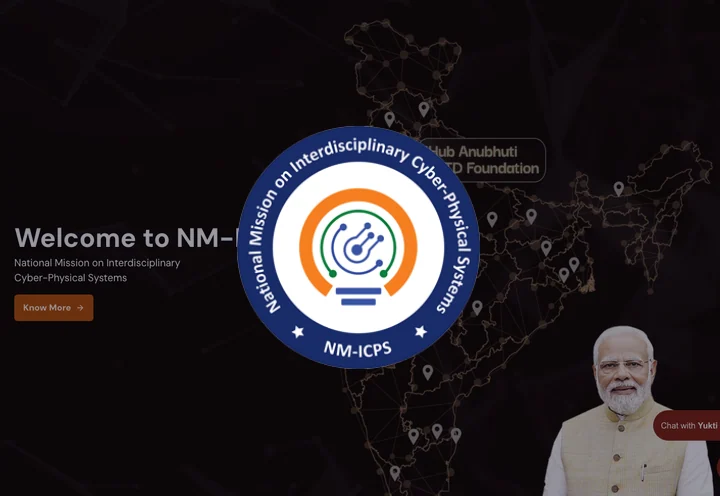
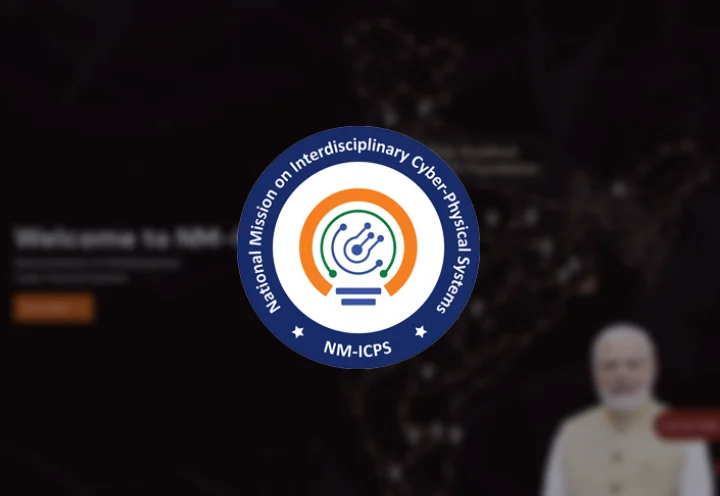
feat: blurred site covers for every project; Rajan Dental courses link
All eight covers are rebuilt from fresh homepage captures with a
Gaussian blur behind the logo so the brand reads clearly. Rajan Dental
now links to and shows courses.rajandental.com. CLAUDE.md documents the
cover recipe, the split cover and the pretext text wrap.

diff --git a/src/components/ProjectCards.tsx b/src/components/ProjectCards.tsx
@@ -58,7 +58,7 @@ const media_urls = [
   {
     id: 5,
     title: "Rajan Dental",
-    links: [{ label: "Website", url: "https://rajandental.com/" }],
+    links: [{ label: "Website", url: "https://courses.rajandental.com/" }],
     cover_image: rajenDentalCover,
     tags: ["UI/UX", "LMS"],
   },

diff --git a/CLAUDE.md b/CLAUDE.md
@@ -44,12 +44,12 @@ Menu links use `to="/#section-id"`. `HomePage` reads `hash` from `useLocation()`
 `src/components/grid.tsx` renders the Services section as four pillar cards, one per competency from the owner's 2030 vision document: title, one short description, and the document's sub-service names as `SubpageHeader variant="small"` tag pills (the same pills the project cards use). Copy lives in `src/components/servicesData.ts`: `PILLARS` (title, description, chips, indices into `SERVICES`) and `SERVICES` (the nine individual services with a one-line lead + one supporting sentence; not rendered as cards any more but still the source of the homepage JSON-LD `offers` in `src/pages/home/page.tsx`). `knowsAbout` in `index.html` is updated by hand. The owner chose this over a pill switcher, a bento, and a glass list (Sept 2026), and earlier rejected a rotating carousel, the "Media Content Marketing" card, illustrations, and a scroll-driven "tree" — do not reintroduce them. The section must use only existing surfaces (section pill, `#06041A` card, Tilt3D, SpotlightCard, fade-up easing).
 
 ### Project cards
-`ProjectCards.tsx` shows static cover images only — the owner removed the hover-to-play video previews (and the old `/test` prototype + `.mp4` assets), do not reintroduce them. The "Take a sneak peek" panel reveals its device mockups via scroll progress (`useScroll` on the panel), not hover.
+`ProjectCards.tsx` shows static cover images only — the owner removed the hover-to-play video previews (and the old `/test` prototype + `.mp4` assets), do not reintroduce them. Every cover follows one recipe (Sept 2026): a 1440px-wide capture of the project's live homepage cropped below its own header, Gaussian-blurred (sigma ≈ 4.5 at 720×496), tinted (white for light sites, navy for dark), with the project's logo composited in the centre; the untouched captures are not kept, so rebuild with `sharp` from a fresh capture. Each card links to the project's live site (`links[]`); a project with exactly two links (SWAYAM Plus: Website + LMS) renders `SplitCover` — one image with two hover zones that widen on hover/focus. Order: SWAYAM Plus, ChitraVaani, Smart Sutra, then the rest; four columns at `lg`. The "Take a sneak peek" panel reveals its device mockups via scroll progress (`useScroll` on the panel), not hover.
 
 ### 3D & interactive pieces
 - `Globe3D.tsx` — photoreal WebGL earth in the Updates section. `/public/textures/earth-day.webp` is NASA Blue Marble (public domain, 4096×2048). Lazy-loaded; the static `/earth2.webp` paints first and crossfades out — that file is a capture of the rendered globe at its initial orientation (regenerate by temporarily setting `preserveDrawingBuffer: true` and saving `canvas.toDataURL()`), so keep them in sync if the initial view changes. Info points are pinned at real lat/long and portal into a marker layer that escapes the earth's alpha mask. The earth and the hero band background dissolve into the page gradient via CSS `mask-image` — never reintroduce a color-matched overlay fade; masks are what keep the section edge seamless. Falls back to the flat image + dot row when WebGL is unavailable or reduced motion is set.
 - `Tilt3D.tsx` — generic mouse-follow perspective tilt used on project cards, solutions grid, and testimonials. Inert on touch/reduced-motion.
-- `Hourglass3D.tsx` — the Why-Us hourglass. `/public/hourglass/hourglass.glb` (meshopt-compressed, decoded with `three/addons/libs/meshopt_decoder`) is the vessel; the sand is a live position-based granular simulation of 3,000 grains, each drawn as one camera-facing shaded sphere in a single instanced draw (no shadow maps, no glow lights; gravity is scaled up to ~28 units/s² so falls read at the vessel's scale) in `src/components/hourglass/` (`HourglassView.ts` owns renderer/scene/interaction, `physics.ts` the grains and the metered neck, `sandVisual.ts` the single instanced draw, `transformation.ts` the chamber-role state machine, `sand.ts` the vessel wall profile that must match the GLB). It runs a 32-second metered cycle, waits for the pile to settle, flips itself and repeats. Drag sideways to tilt (gravity follows), drag vertically to lift (grains get a kick); the vessel stays where it is released (the owner does not want it to snap back), and resting it inverted swaps the roles. Lazy-loaded when the section approaches and fades in on its first frame; there is no static stand-in any more (the owner removed it; `/public/hourglass.webp` is now unused). Without WebGL2, with reduced motion, on failure, or below `lg`, the section is plain stacked copy with no visual. Physics only steps while the section is in view. All sand is one golden colour (the owner rejected the raw-to-gold transition). Layout: the vessel is centered in the section with the copy split into two columns around it; each column holds an invisible float whose `shape-outside` is the vessel's live screen-space outline (`HourglassView.onOutline` projects the frame's bounding cylinder through the camera and convex-hulls it; `src/lib/hourglassSilhouette.ts` formats it, with an analytic upright fallback for the static image), so the text reflows as the hourglass tilts or lifts. No card, no text overlay (the owner rejected both). The 3D vessel mounts only at `lg` and up (`useIsDesktop`). The left column sits a little above the neck and the right column starts lower (`LEFT_RISE` / `RIGHT_STAGGER`).
+- `Hourglass3D.tsx` — the Why-Us hourglass. `/public/hourglass/hourglass.glb` (meshopt-compressed, decoded with `three/addons/libs/meshopt_decoder`) is the vessel; the sand is a live position-based granular simulation of 3,000 grains, each drawn as one camera-facing shaded sphere in a single instanced draw (no shadow maps, no glow lights; gravity is scaled up to ~28 units/s² so falls read at the vessel's scale) in `src/components/hourglass/` (`HourglassView.ts` owns renderer/scene/interaction, `physics.ts` the grains and the metered neck, `sandVisual.ts` the single instanced draw, `transformation.ts` the chamber-role state machine, `sand.ts` the vessel wall profile that must match the GLB). It runs a 32-second metered cycle, waits for the pile to settle, flips itself and repeats. Drag sideways to tilt (gravity follows), drag vertically to lift (grains get a kick); the vessel stays where it is released (the owner does not want it to snap back), and resting it inverted swaps the roles. Lazy-loaded when the section approaches and fades in on its first frame; there is no static stand-in any more (the owner removed it; `/public/hourglass.webp` is now unused). Without WebGL2, with reduced motion, on failure, or below `lg`, the section is plain stacked copy with no visual. Physics only steps while the section is in view. All sand is one golden colour (the owner rejected the raw-to-gold transition). Layout: the vessel is centered in the section with the copy split into two columns around it. The copy is laid out line by line with **pretext** (`@chenglou/pretext`, `prepareWithSegments` + `layoutNextLineRange`): `HourglassView.onOutline` projects the frame's bounding cylinder through the camera and convex-hulls it, `src/lib/hourglassSilhouette.ts` provides the analytic upright hull until the first frame plus `outlineExtent()`, and `WhyUs.tsx` gives every line only the width the hull leaves free at that height (`intrusion()`), so the text reflows as the hourglass tilts or lifts; the Get in touch button is inset the same way. Font and line height are read from the column's computed style and re-measured after `document.fonts.ready` (pretext's cache is cleared). The owner asked for pretext over the earlier CSS `shape-outside` floats (Sept 2026) — do not go back to floats. No card, no text overlay (the owner rejected both). The 3D vessel mounts only at `lg` and up (`useIsDesktop`). The left column sits a little above the neck and the right column starts lower (`LEFT_RISE` / `RIGHT_STAGGER`).
 
 ### Public assets
 Static files served from `/public/`: `/Badge.webp`, `/bg-image.webp`, `/Outer_Spread.webp`, `/32mins_emp/` (employee portraits), `/textures/` (globe maps), `/hourglass/hourglass.glb` (Why-Us vessel model; the Blender source lives outside this repo).
